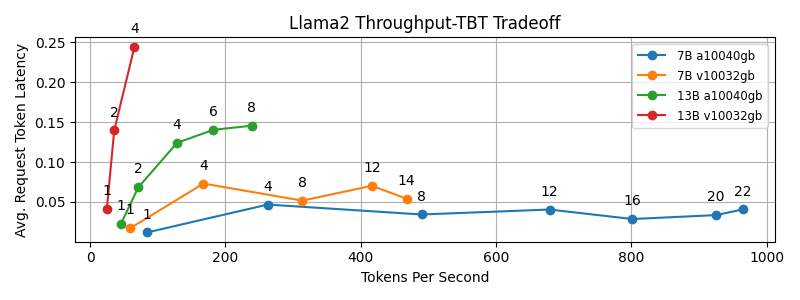
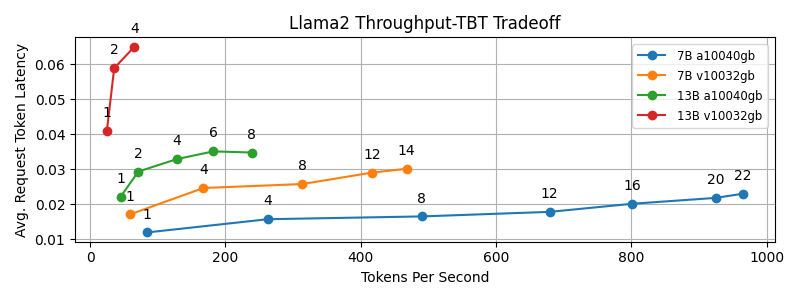
pad tokens skew results

Changed region(s): [[0.0312, 0.12, 0.9688, 0.81], [0.5, 0.48, 0.5312, 0.51]]

diff --git a/nvidia-gpu/tensorrt-llm/plotting/gpu_batch_exp_plotting.py b/nvidia-gpu/tensorrt-llm/plotting/gpu_batch_exp_plotting.py
@@ -69,6 +69,7 @@ def plot_throughput_vs_tbt(
         # tbt = time between tokens (theoretically achievable user-perceived latency)
         tbt_sum = 0
         e2e_time_sum = 0
+        avg_generated_tokens_sum = 0
         num_iterations = 0
 
         for batch_iteration, batch_dict in bmark_info.items():
@@ -76,7 +77,8 @@ def plot_throughput_vs_tbt(
             batch_end_time = batch_dict['batch_end_time']
             batch_e2e_time = batch_end_time - batch_start_time
 
-            batch_input_lengths_sum, batch_output_lengths_sum, batch_tbt_sum = 0, 0, 0
+            #batch_input_lengths_sum, batch_output_lengths_sum, batch_tbt_sum = 0, 0, 0
+            batch_input_lengths_sum, batch_output_lengths_sum = 0, 0
             batch_input_lengths_items = batch_dict['batch_input_lengths'].items()
             batch_output_lengths_items = batch_dict['batch_output_lengths'].items()
             assert(len(batch_input_lengths_items) == len(batch_output_lengths_items))
@@ -86,14 +88,22 @@ def plot_throughput_vs_tbt(
                 batch_output_lengths_sum += batch_output_length
 
                 # Skip iteration if no tokens were generated
-                if batch_output_length == batch_input_length:
-                    continue
-                batch_tbt = batch_e2e_time / (batch_output_length - batch_input_length)
-                batch_tbt_sum += batch_tbt
+                #if batch_output_length == batch_input_length:
+                #    continue
+                #batch_tbt = batch_e2e_time / (batch_output_length - batch_input_length)
+                #batch_tbt_sum += batch_tbt
 
             assert(batch_size == len(batch_input_lengths_items))
             total_batch_generated_tokens = batch_output_lengths_sum - batch_input_lengths_sum
-            batch_tbt_avg = batch_tbt_sum / batch_size
+            avg_batch_generated_tokens = total_batch_generated_tokens / batch_size
+            #batch_tbt_avg = batch_tbt_sum / batch_size
+
+            # if no tokens generated, skip this iteration
+            if avg_batch_generated_tokens == 0:
+                continue
+
+            avg_generated_tokens_sum += avg_batch_generated_tokens
+            batch_tbt_avg = batch_e2e_time / avg_batch_generated_tokens
 
             # tps = tokens per second
             batch_tps_avg = total_batch_generated_tokens / batch_e2e_time
@@ -104,8 +114,9 @@ def plot_throughput_vs_tbt(
 
         avg_tps = tps_sum / num_iterations
         avg_tbt = tbt_sum / num_iterations
+        avg_generated_tokens = avg_generated_tokens_sum / num_iterations
         avg_e2e_time = e2e_time_sum / num_iterations
-        print(f'{model_size} {batch_size} {max_sequence_length} {gpu_type} {avg_tps} {avg_tbt} {avg_e2e_time}')
+        print(f'{model_size} {batch_size} {max_sequence_length} {gpu_type} {avg_tps} {avg_tbt} {avg_e2e_time} {avg_generated_tokens}')
 
         # group plotting points into the group_dicts
         bmark_param_match_found = False
